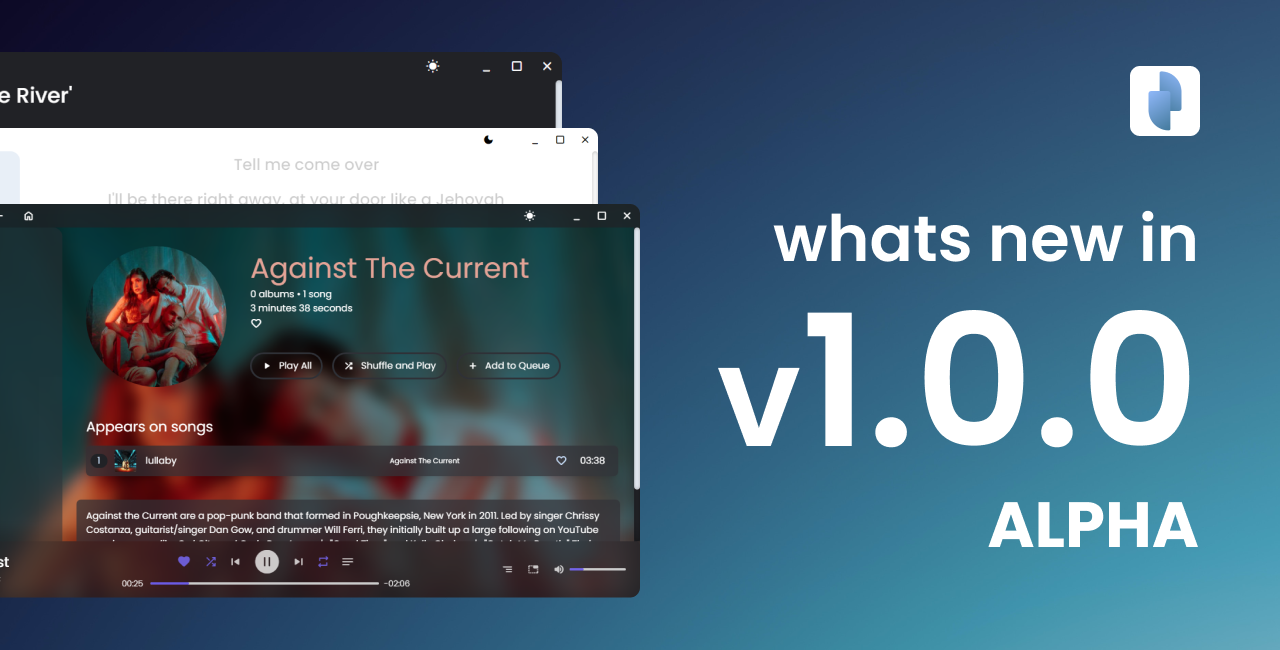
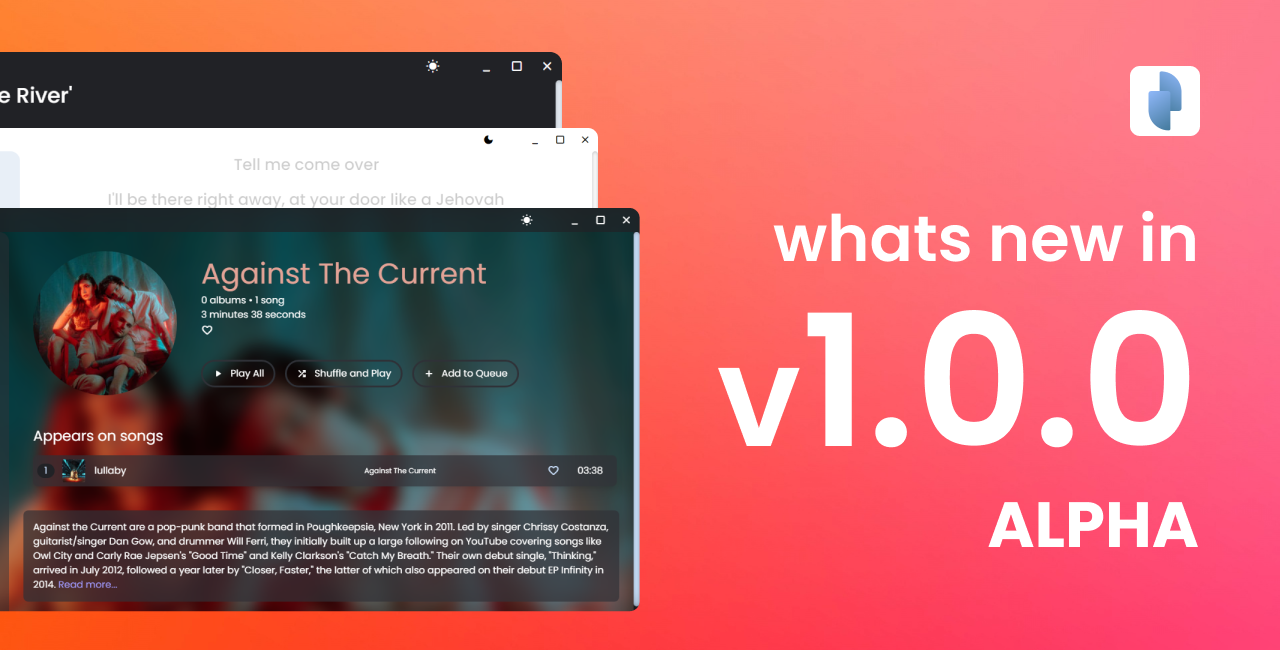
updated to v1.0.0-alpha.20221207
- Updated readme artworks.
- Added new 'whats-new-on-latest-update' artwork.
- Fixed Artist component showing wrong default artwork.
- Fixed some contrast issues on GenreInfoPage.
- Fixed Genre component not opening GenreInfoPage on click.
- Fixed a bug where Prompts are not positioning Button components correctly.
- Resolved some path issues on Playlist component.
- Fixed a styling issue on Playlist component where when hovered, shows an overflowed gradient.
Fixed SongArtwork component on SongTagsEditingPage not positioning its buttons correctly.
- Fixed NetworkIndicator not updating its state as intended.

diff --git a/src/renderer/components/SongsPage/RemoveSongFromLibraryConfirmPrompt.tsx b/src/renderer/components/SongsPage/RemoveSongFromLibraryConfirmPrompt.tsx
@@ -39,42 +39,46 @@ export default (props: { songIds: string[]; title?: string }) => {
           setIsDoNotShowAgain(state);
         }}
       />
-      <Button
-        label={`Blacklist Song${songIds.length !== 1 ? 's' : ''}`}
-        className="remove-song-from-library-btn danger-btn  float-right h-10 w-48 cursor-pointer rounded-lg border-[transparent] !bg-font-color-crimson text-font-color-white outline-none transition-[background] ease-in-out hover:border-font-color-crimson dark:!bg-font-color-crimson dark:text-font-color-white dark:hover:border-font-color-crimson"
-        clickHandler={() =>
-          window.api.removeSongsFromLibrary(songIds).then(async (res) => {
-            if (res.success) {
-              if (isDoNotShowAgain)
-                window.api.saveUserData(
-                  'preferences.doNotShowRemoveSongFromLibraryConfirm',
-                  isDoNotShowAgain
-                );
-              changePromptMenuData(false);
-              addNewNotifications([
-                {
-                  id: `${title}Blacklisted`,
-                  delay: 5000,
-                  content: (
-                    <span>
-                      {songIds.length === 1 && title ? (
-                        <>&apos;{title}&apos;</>
-                      ) : (
-                        `${songIds.length} songs`
-                      )}{' '}
-                      blacklisted and removed from the library.
-                    </span>
-                  ),
-                  icon: (
-                    <span className="material-icons-round">delete_outline</span>
-                  ),
-                },
-              ]);
-            }
-            return undefined;
-          })
-        }
-      />
+      <div className="buttons-container flex items-center justify-end">
+        <Button
+          label={`Blacklist Song${songIds.length !== 1 ? 's' : ''}`}
+          className="remove-song-from-library-btn danger-btn dark:border-g-font-color-crimson/50 float-right mt-6 h-10 w-48 cursor-pointer rounded-lg border-font-color-crimson/50 !bg-font-color-crimson text-font-color-white outline-none ease-in-out hover:border-font-color-crimson dark:!bg-font-color-crimson dark:text-font-color-white dark:hover:border-font-color-crimson"
+          clickHandler={() =>
+            window.api.removeSongsFromLibrary(songIds).then(async (res) => {
+              if (res.success) {
+                if (isDoNotShowAgain)
+                  window.api.saveUserData(
+                    'preferences.doNotShowRemoveSongFromLibraryConfirm',
+                    isDoNotShowAgain
+                  );
+                changePromptMenuData(false);
+                addNewNotifications([
+                  {
+                    id: `${title}Blacklisted`,
+                    delay: 5000,
+                    content: (
+                      <span>
+                        {songIds.length === 1 && title ? (
+                          <>&apos;{title}&apos;</>
+                        ) : (
+                          `${songIds.length} songs`
+                        )}{' '}
+                        blacklisted and removed from the library.
+                      </span>
+                    ),
+                    icon: (
+                      <span className="material-icons-round">
+                        delete_outline
+                      </span>
+                    ),
+                  },
+                ]);
+              }
+              return undefined;
+            })
+          }
+        />
+      </div>
     </>
   );
 };

diff --git a/src/renderer/components/SongsPage/DeleteSongFromSystemConfrimPrompt.tsx b/src/renderer/components/SongsPage/DeleteSongFromSystemConfrimPrompt.tsx
@@ -27,39 +27,41 @@ export default (props: { songPath: string; title: string; songId: string }) => {
         checkedStateUpdateFunction={setIsPermenanentDelete}
         labelContent="Permanently delete from the system."
       />
-      <Button
-        label="Delete Song"
-        className="delete-song-confirm-btn danger-btn float-right h-10 w-48 cursor-pointer rounded-lg border-[transparent] !bg-font-color-crimson text-font-color-white outline-none transition-[background] ease-in-out hover:border-font-color-crimson dark:!bg-font-color-crimson dark:text-font-color-white dark:hover:border-font-color-crimson"
-        clickHandler={() => {
-          changePromptMenuData(false);
-          return window.api
-            .deleteSongFromSystem(songPath, isPermanentDelete)
-            .then((res) => {
-              if (res.success) {
-                if (songId === currentSongData.songId) clearAudioPlayerData();
-                addNewNotifications([
-                  {
-                    id: `${title}Removed`,
-                    delay: 5000,
-                    content: (
-                      <span>
-                        {isPermanentDelete
-                          ? `'${title}' song removed from the system.`
-                          : `'${title}' song moved to the Recycle Bin.`}
-                      </span>
-                    ),
-                    icon: (
-                      <span className="material-icons-round icon">
-                        done_all
-                      </span>
-                    ),
-                  },
-                ]);
-              }
-              return undefined;
-            });
-        }}
-      />
+      <div className="buttons-container flex items-center justify-end">
+        <Button
+          label="Delete Song"
+          className="delete-song-confirm-btn danger-btn float-right mt-6 h-10 w-48 cursor-pointer rounded-lg !bg-font-color-crimson font-medium text-font-color-white outline-none ease-in-out hover:border-font-color-crimson dark:!bg-font-color-crimson dark:text-font-color-white dark:hover:border-font-color-crimson"
+          clickHandler={() => {
+            changePromptMenuData(false);
+            return window.api
+              .deleteSongFromSystem(songPath, isPermanentDelete)
+              .then((res) => {
+                if (res.success) {
+                  if (songId === currentSongData.songId) clearAudioPlayerData();
+                  addNewNotifications([
+                    {
+                      id: `${title}Removed`,
+                      delay: 5000,
+                      content: (
+                        <span>
+                          {isPermanentDelete
+                            ? `'${title}' song removed from the system.`
+                            : `'${title}' song moved to the Recycle Bin.`}
+                        </span>
+                      ),
+                      icon: (
+                        <span className="material-icons-round icon">
+                          done_all
+                        </span>
+                      ),
+                    },
+                  ]);
+                }
+                return undefined;
+              });
+          }}
+        />
+      </div>
     </>
   );
 };

diff --git a/src/renderer/components/PlaylistsPage/Playlist.tsx b/src/renderer/components/PlaylistsPage/Playlist.tsx
@@ -5,7 +5,8 @@
 /* eslint-disable react/self-closing-comp */
 /* eslint-disable import/prefer-default-export */
 import React from 'react';
-import { AppContext, AppUpdateContext } from 'renderer/contexts/AppContext';
+import { AppContext } from 'renderer/contexts/AppContext';
+import { AppUpdateContext } from 'renderer/contexts/AppUpdateContext';
 import Img from '../Img';
 import MultipleSelectionCheckbox from '../MultipleSelectionCheckbox';
 
@@ -219,7 +220,7 @@ export const Playlist = (props: PlaylistProp) => {
       }
     >
       <div
-        className="playlist-cover-and-play-btn-container relative h-[70%] cursor-pointer overflow-hidden before:invisible before:absolute before:h-full before:w-full before:bg-gradient-to-b before:from-[hsla(0,0%,0%,0%)] before:to-[hsla(0,0%,0%,40%)] before:opacity-0 before:transition-[visibility,opacity] before:duration-300 before:content-[''] group-hover:before:visible group-hover:before:opacity-100"
+        className="playlist-cover-and-play-btn-container relative h-[70%] cursor-pointer overflow-hidden rounded-xl before:invisible before:absolute before:h-full before:w-full before:bg-gradient-to-b before:from-[hsla(0,0%,0%,0%)] before:to-[hsla(0,0%,0%,40%)] before:opacity-0 before:transition-[visibility,opacity] before:duration-300 before:content-[''] group-hover:before:visible group-hover:before:opacity-100"
         onClick={() =>
           isMultipleSelectionEnabled &&
           multipleSelectionsData.selectionType === 'playlist'
@@ -240,7 +241,7 @@ export const Playlist = (props: PlaylistProp) => {
           />
         ) : (
           <span
-            className="material-icons-round icon absolute bottom-3 right-3 translate-y-10 cursor-pointer text-4xl text-font-color-white opacity-0 transition-[opacity,transform] delay-100 duration-200 ease-in-out group-hover:translate-y-0 group-hover:opacity-100 dark:text-font-color-white "
+            className="material-icons-round icon absolute bottom-3 right-3 translate-y-10 cursor-pointer text-4xl text-font-color-white opacity-0 transition-[opacity,transform] delay-100 duration-200 ease-in-out group-hover:translate-y-0 group-hover:opacity-100 dark:text-font-color-white"
             onClick={() =>
               createQueue(
                 props.songs,
@@ -254,7 +255,7 @@ export const Playlist = (props: PlaylistProp) => {
             play_circle
           </span>
         )}
-        <div className="playlist-cover-container h-full cursor-pointer overflow-hidden rounded-xl">
+        <div className="playlist-cover-container h-full cursor-pointer overflow-hidden">
           <Img
             src={props.artworkPaths.artworkPath}
             alt="Playlist Cover"

diff --git a/src/renderer/components/HomePage/ResetAppConfirmationPrompt.tsx b/src/renderer/components/HomePage/ResetAppConfirmationPrompt.tsx
@@ -1,3 +1,5 @@
+import Button from '../Button';
+
 export default () => {
   return (
     <>
@@ -8,15 +10,19 @@ export default () => {
         Resetting the app will remove all of your user data including data about
         songs, data about favorites, data about your preferences, applied
         settings data etc; but NOT the songs in this system. Keep in mind that
-        this process is IRREVERSIBLE.
+        this process is{' '}
+        <span className="font-semibold text-font-color-crimson">
+          IRREVERSIBLE
+        </span>
+        .
       </div>
-      <button
-        type="button"
-        className="confirm-app-reset-btn danger-btn float-right mt-6 h-10 w-48 cursor-pointer rounded-lg border-[transparent] !bg-font-color-crimson text-font-color-white outline-none transition-[background] ease-in-out hover:border-font-color-crimson dark:!bg-font-color-crimson dark:text-font-color-white dark:hover:border-font-color-crimson"
-        onClick={() => window.api.resetApp()}
-      >
-        Reset The App
-      </button>
+      <div className="buttons-container flex items-center justify-end">
+        <Button
+          label="Reset The App"
+          className="confirm-app-reset-btn danger-btn float-right mt-6 h-10 w-48 cursor-pointer rounded-lg !bg-font-color-crimson text-font-color-white outline-none ease-in-out hover:border-font-color-crimson dark:!bg-font-color-crimson dark:text-font-color-white dark:hover:border-font-color-crimson"
+          clickHandler={() => window.api.resetApp()}
+        />
+      </div>
     </>
   );
 };

diff --git a/src/renderer/components/SettingsPage/RemoveFolderConfirmationPrompt.tsx b/src/renderer/components/SettingsPage/RemoveFolderConfirmationPrompt.tsx
@@ -17,16 +17,18 @@ export default (props: { folderName: string; absolutePath: string }) => {
         songs data from the music library, but not the contents of the folder in
         your system.
       </div>
-      <Button
-        className="remove-folder-confirm-btn danger-btn float-right mt-8 h-10 w-48 cursor-pointer rounded-lg border-[transparent] !bg-font-color-crimson text-font-color-white outline-none transition-[background,border] ease-in-out hover:border-font-color-crimson dark:!bg-font-color-crimson dark:text-font-color-white dark:hover:border-font-color-crimson"
-        label="REMOVE"
-        clickHandler={() => {
-          window.api
-            .removeAMusicFolder(absolutePath)
-            .then(() => changePromptMenuData(false))
-            .catch((err) => console.error(err));
-        }}
-      />
+      <div className="buttons-container flex items-center justify-end">
+        <Button
+          className="remove-folder-confirm-btn danger-btn float-right mt-8 h-10 w-48 cursor-pointer rounded-lg !bg-font-color-crimson font-medium text-font-color-white outline-none ease-in-out hover:border-font-color-crimson dark:!bg-font-color-crimson dark:text-font-color-white dark:hover:border-font-color-crimson"
+          label="REMOVE"
+          clickHandler={() => {
+            window.api
+              .removeAMusicFolder(absolutePath)
+              .then(() => changePromptMenuData(false))
+              .catch((err) => console.error(err));
+          }}
+        />
+      </div>
     </>
   );
 };

diff --git a/src/renderer/components/SensitiveActionConfirmPrompt.tsx b/src/renderer/components/SensitiveActionConfirmPrompt.tsx
@@ -18,12 +18,14 @@ const SensitiveActionConfirmPrompt = (
         {title}
       </div>
       <div className="description">{content}</div>
-      <Button
-        label={confirmButton.label}
-        iconName={confirmButton.iconName}
-        className={`remove-song-from-library-btn danger-btn float-right mt-8 h-10 w-48 cursor-pointer rounded-lg border-[transparent] !bg-font-color-crimson text-font-color-white outline-none transition-[background] ease-in-out hover:border-font-color-crimson dark:!bg-font-color-crimson dark:text-font-color-white dark:hover:border-font-color-crimson ${confirmButton.className}`}
-        clickHandler={confirmButton.clickHandler}
-      />
+      <div className="buttons-container flex items-center justify-end">
+        <Button
+          label={confirmButton.label}
+          iconName={confirmButton.iconName}
+          className={`remove-song-from-library-btn danger-btn float-right mt-8 h-10 w-48 cursor-pointer rounded-lg !bg-font-color-crimson text-font-color-white outline-none ease-in-out hover:border-font-color-crimson dark:!bg-font-color-crimson dark:text-font-color-white dark:hover:border-font-color-crimson ${confirmButton.className}`}
+          clickHandler={confirmButton.clickHandler}
+        />
+      </div>
     </>
   );
 };

diff --git a/src/renderer/components/SettingsPage/ReleaseNotesPrompt.tsx b/src/renderer/components/SettingsPage/ReleaseNotesPrompt.tsx
@@ -47,10 +47,9 @@ const NoteComponent = (props: Note) => {
 
 const Version = (props: VersionProp) => {
   const { version, releaseDate, isLatest, notes } = props;
-  const key = React.useId();
   const elapsed = calculateElapsedTime(releaseDate);
   return (
-    <div key={key} className="app-version group mb-8 px-4 pb-4 last:pb-8">
+    <div key={version} className="app-version group mb-8 px-4 pb-4 last:pb-8">
       <div className="version-info mb-4 flex justify-between text-lg font-medium">
         <span className="version text-font-color-highlight dark:text-dark-font-color-highlight">
           v{version} {version === packageFile.version && '(Current)'}

diff --git a/src/renderer/components/TitleBar/indicators/NetworkIndicator.tsx b/src/renderer/components/TitleBar/indicators/NetworkIndicator.tsx
@@ -4,9 +4,16 @@ const NetworkIndicator = () => {
   const [isOnline, setIsOnline] = React.useState(false);
 
   React.useEffect(() => {
+    const controller = new AbortController();
     setIsOnline(navigator.onLine);
-    // eslint-disable-next-line react-hooks/exhaustive-deps
-  }, [navigator.onLine]);
+    window.addEventListener('online', () => setIsOnline(true), {
+      signal: controller.signal,
+    });
+    window.addEventListener('offline', () => setIsOnline(false), {
+      signal: controller.signal,
+    });
+    return () => controller.abort();
+  }, []);
 
   return (
     <div

diff --git a/src/renderer/components/GenresPage/Genre.tsx b/src/renderer/components/GenresPage/Genre.tsx
@@ -157,7 +157,7 @@ const Genre = (props: GenreProp) => {
               'genre',
               isAMultipleSelection ? 'remove' : 'add'
             )
-          : goToGenreInfoTab
+          : goToGenreInfoTab()
       }
       onKeyUp={() =>
         isMultipleSelectionEnabled &&
@@ -167,7 +167,7 @@ const Genre = (props: GenreProp) => {
               'genre',
               isAMultipleSelection ? 'remove' : 'add'
             )
-          : goToGenreInfoTab
+          : goToGenreInfoTab()
       }
       role="button"
       tabIndex={0}

diff --git a/src/renderer/components/ArtistPage/Artist.tsx b/src/renderer/components/ArtistPage/Artist.tsx
@@ -246,8 +246,9 @@ export const Artist = (props: ArtistProp) => {
           src={
             navigator.onLine && props.onlineArtworkPaths
               ? props.onlineArtworkPaths.picture_medium
-              : props.artworkPaths.artworkPath || DefaultArtistCover
+              : props.artworkPaths.artworkPath
           }
+          fallbackSrc={DefaultArtistCover}
           alt="Default song cover"
           className="aspect-square h-full rounded-full object-cover shadow-xl"
           onClick={() => {

diff --git a/src/renderer/components/GenreInfoPage/GenreInfoPage.tsx b/src/renderer/components/GenreInfoPage/GenreInfoPage.tsx
@@ -135,7 +135,7 @@ const GenreInfoPage = () => {
     >
       <>
         {genreData.genreId && (
-          <div className="genre-info-container my-8 h-fit text-font-color-black dark:text-font-color-white">
+          <div className="genre-info-container my-8 h-fit text-font-color-white dark:text-font-color-white">
             <div className="genre-title h-fit max-w-[80%] overflow-hidden text-ellipsis whitespace-nowrap py-2 text-6xl">
               {genreData.name}
             </div>

diff --git a/src/renderer/components/SongTagsEditingPage/SongArtwork.tsx b/src/renderer/components/SongTagsEditingPage/SongArtwork.tsx
@@ -11,7 +11,7 @@ type Props = {
 const SongArtwork = (props: Props) => {
   const { artworkPath, updateSongInfo } = props;
   return (
-    <div className="song-artwork-container relative  mr-8 w-40 overflow-hidden">
+    <div className="song-artwork-container relative mr-8 h-40 w-40 overflow-hidden">
       <Img
         src={
           artworkPath
